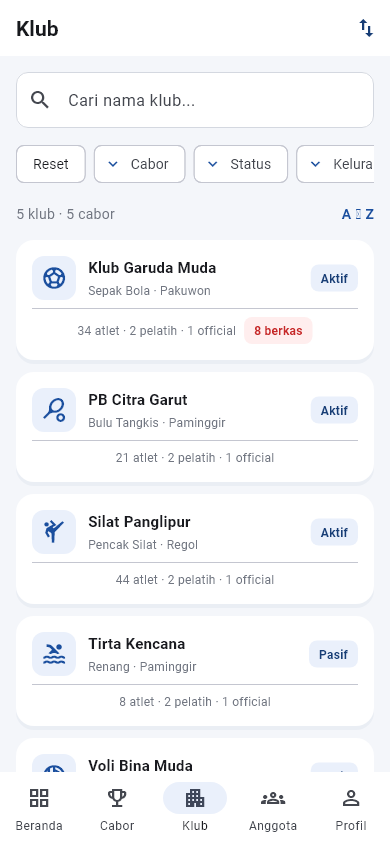
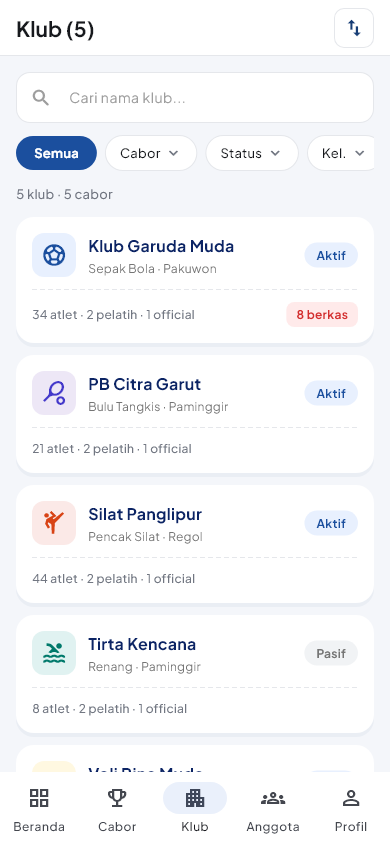
test: perbarui pengujian dan preview visual daftar klub

diff --git a/test/app_test.dart b/test/app_test.dart
@@ -5,6 +5,7 @@ import 'package:shared_preferences/shared_preferences.dart';
 import 'package:kok_app/app.dart';
 import 'package:kok_app/core/session.dart';
 import 'package:kok_app/data/repository.dart';
+import 'package:kok_app/features/clubs_page.dart';
 import 'package:kok_app/features/dashboard_decorations.dart';
 
 Future<ProviderContainer> start(
@@ -148,4 +149,42 @@ void main() {
     await tester.pumpAndSettle();
     expect(find.text('Perlu Perhatian'), findsWidgets);
   });
+
+  testWidgets('ClubsPage renders polished UI, sort modal, filter chips and dynamic count', (
+    tester,
+  ) async {
+    final container = await start(tester);
+    await container
+        .read(sessionProvider.notifier)
+        .signIn('DEMO-001', 'kokgarut123', false);
+    await tester.pumpAndSettle();
+
+    container.read(routerProvider).go('/clubs');
+    await tester.pumpAndSettle();
+
+    // Verify dynamic count in AppBar and subtitle
+    expect(find.textContaining('Klub ('), findsOneWidget);
+    expect(find.textContaining('klub ·'), findsOneWidget);
+
+    // Verify filter chips
+    expect(find.text('Semua'), findsOneWidget);
+    expect(find.widgetWithText(FilterChipDropdown, 'Cabor'), findsOneWidget);
+    expect(find.widgetWithText(FilterChipDropdown, 'Status'), findsOneWidget);
+    expect(find.widgetWithText(FilterChipDropdown, 'Kel.'), findsOneWidget);
+
+    // Verify sort button opens sort modal
+    await tester.tap(find.byIcon(Icons.swap_vert));
+    await tester.pumpAndSettle();
+    expect(find.text('Urutkan Klub'), findsOneWidget);
+    expect(find.text('Nama (A → Z)'), findsOneWidget);
+    expect(find.text('Jumlah Atlet Terbanyak'), findsOneWidget);
+
+    // Tap sort by athletes
+    await tester.tap(find.text('Jumlah Atlet Terbanyak'));
+    await tester.pumpAndSettle();
+
+    // Modal should close
+    expect(find.text('Urutkan Klub'), findsNothing);
+  });
 }
+
